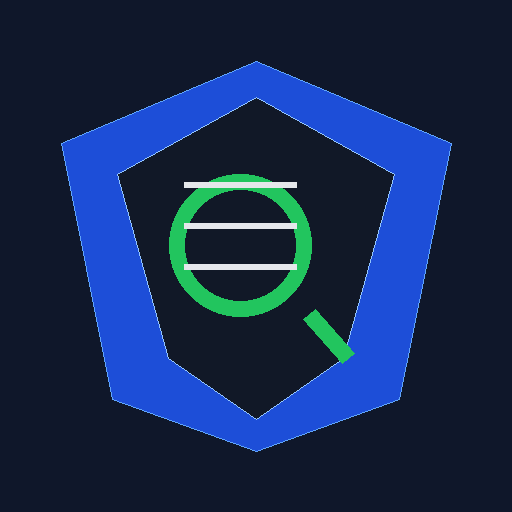
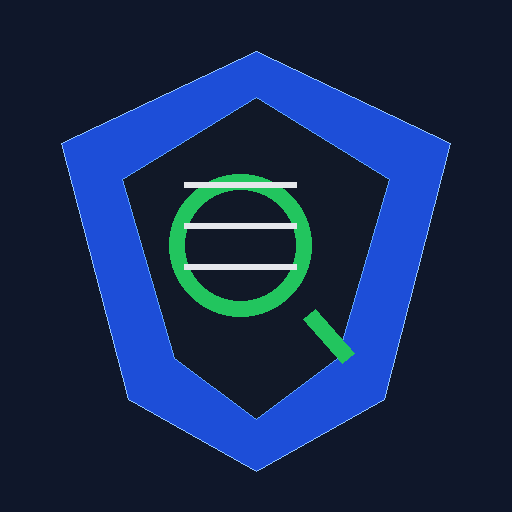
Release 3

diff --git a/js/app.js b/js/app.js
@@ -1,34 +1,36 @@
-let manifest=null,questions=[],current=0,sessionScore=0,results=[],flagged=new Set(),favorites=new Set(),answers={};
-const STORE='cysaCoachRelease2Stats', LISTS='cysaCoachRelease2Lists';
+let manifest=null,questions=[],current=0,sessionScore=0,answers={},mode='practice',flagged=new Set(),favorites=new Set();
+const STORE='cysaCoachR3Stats', LISTS='cysaCoachR3Lists';
 function getStats(){return JSON.parse(localStorage.getItem(STORE)||'{"answered":0,"correct":0,"lowConf":0,"domains":{},"topics":{},"mistakes":{}}')}
 function getLists(){return JSON.parse(localStorage.getItem(LISTS)||'{"flagged":[],"incorrect":[],"favorites":[]}' )}
 function saveLists(l){localStorage.setItem(LISTS,JSON.stringify(l))}
 function saveStats(s){localStorage.setItem(STORE,JSON.stringify(s));updateDashboard()}
 function pct(c,t){return t?Math.round(c/t*100):0}
-function updateStats(r){let s=getStats();s.answered++;if(r.correct)s.correct++;if(['guess','50','not selected'].includes(r.confidence))s.lowConf++;for(let key of ['domain','topic','mistake']){let bucket=key==='domain'?s.domains:key==='topic'?s.topics:s.mistakes;let val=r[key];if(!val)continue;if(!bucket[val])bucket[val]={answered:0,correct:0};bucket[val].answered++;if(r.correct)bucket[val].correct++;}saveStats(s)}
+function qkey(q=questions[current]){return `${packSelect.value}::${q.id}`}
+function updateStats(rec){if(rec.statsSaved)return;let s=getStats();s.answered++;if(rec.correct)s.correct++;if(['guess','50','not selected'].includes(rec.confidence))s.lowConf++;for(let key of ['domain','topic','mistake']){let bucket=key==='domain'?s.domains:key==='topic'?s.topics:s.mistakes;let val=rec[key];if(!val)continue;if(!bucket[val])bucket[val]={answered:0,correct:0};bucket[val].answered++;if(rec.correct)bucket[val].correct++;}rec.statsSaved=true;saveStats(s)}
 function weakest(obj){let name='Start Pack 1',min=101;Object.entries(obj).forEach(([k,v])=>{if(v.answered>=2){let p=pct(v.correct,v.answered);if(p<min){min=p;name=k}}});return name}
 function updateDashboard(){let s=getStats();let acc=pct(s.correct,s.answered);let readiness=Math.min(99,Math.round(acc*.75+Math.min(s.answered,100)*.25));dashAnswered.textContent=s.answered;dashAccuracy.textContent=acc+'%';dashLowConf.textContent=s.lowConf;readinessScore.textContent=readiness+'%';readinessLabel.textContent=readiness>=85?'Strong readiness':readiness>=70?'Building readiness':'Start practicing';dashFocus.textContent=weakest(s.domains)}
 async function init(){updateDashboard();manifest=await fetch('questions/manifest.json').then(r=>r.json());manifest.packs.forEach(p=>{let o=document.createElement('option');o.value=p.file;o.textContent=`${p.title} (${p.count})`;packSelect.appendChild(o)});let l=getLists();flagged=new Set(l.flagged);favorites=new Set(l.favorites);await loadSelectedPack()}
 async function loadSelectedPack(){questions=await fetch(packSelect.value).then(r=>r.json());restart()}
-function qkey(q=questions[current]){return `${packSelect.value}::${q.id}`}
-function persistLists(){let l=getLists();l.flagged=[...flagged];l.favorites=[...favorites];saveLists(l)}
-function render(){let q=questions[current];progress.textContent=`Question ${current+1} / ${questions.length}`;score.textContent=`Score: ${sessionScore}`;meta.textContent=`${q.domain} • ${q.qtype||q.kind} • ${q.difficulty}`;question.textContent=q.question;options.innerHTML='';explanation.innerHTML='';finalAnalytics.innerHTML='';submitBtn.style.display='inline-block';confidenceBox.style.display='block';document.querySelectorAll('input[name=confidence]').forEach(x=>x.checked=false);if(q.kind==='single'||q.kind==='multi'){q.options.forEach((opt,idx)=>{let l=document.createElement('label');l.className='option';let t=q.kind==='multi'?'checkbox':'radio';l.innerHTML=`<input type="${t}" name="answer" value="${idx}" style="margin-right:10px;">${opt}`;let input=l.querySelector('input');if(answers[current]?.selected?.includes(idx))input.checked=true;if(q.kind==='multi')input.addEventListener('change',()=>enforceSelectLimit(q.select_limit));options.appendChild(l)});if(q.kind==='multi'){let note=document.createElement('p');note.className='small warn';note.textContent=`Select exactly ${q.select_limit}.`;options.prepend(note)}}renderNavigator()}
+function setMode(m){mode=m;restart()}
+function render(){let q=questions[current], st=answers[current];progress.textContent=`Question ${current+1} / ${questions.length}`;score.textContent=`Score: ${sessionScore}`;meta.textContent=`${q.domain} • ${q.qtype||q.kind} • ${q.difficulty}`;modeBadge.textContent=mode==='practice'?'Practice Mode':'Exam Mode';question.textContent=q.question;options.innerHTML='';explanation.innerHTML='';finalAnalytics.innerHTML='';submitBtn.style.display=mode==='practice'&&!st?.submitted?'inline-block':'none';confidenceBox.style.display='block';document.querySelectorAll('input[name=confidence]').forEach(x=>x.checked=st?.confidence===x.value);q.options.forEach((opt,idx)=>{let l=document.createElement('label');l.className='option';let t=q.kind==='multi'?'checkbox':'radio';l.innerHTML=`<input type="${t}" name="answer" value="${idx}" style="margin-right:10px;">${opt}`;let input=l.querySelector('input');if(st?.selected?.includes(idx))input.checked=true;if(q.kind==='multi')input.addEventListener('change',()=>enforceSelectLimit(q.select_limit));if(st?.submitted||st?.graded){if(q.answer.includes(idx))l.classList.add('correct');if(st.selected?.includes(idx)&&!q.answer.includes(idx))l.classList.add('wrong');input.disabled=true}options.appendChild(l)});if(q.kind==='multi'){let note=document.createElement('p');note.className='small warn';note.textContent=`Select exactly ${q.select_limit}.`;options.prepend(note)}if((st?.submitted&&mode==='practice')||st?.graded)showExplanation(q,st.correct,st.confidence,false);renderNavigator()}
 function enforceSelectLimit(limit){let checked=[...document.querySelectorAll('#options input[type=checkbox]:checked')];if(checked.length>limit){checked[checked.length-1].checked=false;alert(`Select only ${limit}.`)}}
-function arraysEqual(a,b){return JSON.stringify([...a].sort((x,y)=>x-y))===JSON.stringify([...b].sort((x,y)=>x-y))}
-function getConf(){let c=document.querySelector('input[name=confidence]:checked');return c?c.value:'not selected'}
 function selectedNow(){let q=questions[current], sel=[];let selector=q.kind==='multi'?'#options input[type=checkbox]:checked':'#options input[name=answer]:checked';document.querySelectorAll(selector).forEach(x=>sel.push(parseInt(x.value)));return sel}
-function toggleFlag(){let k=qkey();flagged.has(k)?flagged.delete(k):flagged.add(k);persistLists();renderNavigator();alert(flagged.has(k)?'Flagged for review':'Removed flag')}
-function toggleFavorite(){let k=qkey();favorites.has(k)?favorites.delete(k):favorites.add(k);persistLists();alert(favorites.has(k)?'Added to favorites':'Removed favorite')}
-function submitAnswer(){let q=questions[current],correct=false,sel=selectedNow();if(q.kind==='multi'&&sel.length!==q.select_limit){alert(`Please select exactly ${q.select_limit}.`);return}if(q.kind==='single'&&sel.length!==1){alert('Please select one answer.');return}correct=arraysEqual(sel,q.answer);answers[current]={selected:sel,correct};document.querySelectorAll('#options .option').forEach((lab,idx)=>{if(q.answer.includes(idx))lab.classList.add('correct');if(sel.includes(idx)&&!q.answer.includes(idx))lab.classList.add('wrong')});if(!results.find(r=>r.index===current)){if(correct)sessionScore++;let conf=getConf();let rec={index:current,key:qkey(),domain:q.domain,topic:q.topic||'',type:q.qtype||q.kind,mistake:correct?'':q.mistake_type,correct,confidence:conf,flagged:flagged.has(qkey())};results.push(rec);if(!correct){let l=getLists();if(!l.incorrect.includes(qkey()))l.incorrect.push(qkey());saveLists(l)}updateStats(rec)}score.textContent=`Score: ${sessionScore}`;showExplanation(q,correct,getConf());submitBtn.style.display='none';renderNavigator()}
-function showExplanation(q,correct,conf){let h=`<div class="explanation"><strong>${correct?'Correct':'Not quite'}.</strong> Confidence: <strong>${conf}</strong><br><br>`;h+=`<strong>Correct answer${q.answer.length>1?'s':''}:</strong> ${q.answer.map(i=>q.options[i]).join('; ')}<br><br>`;h+=`<strong>Why the correct answer is correct:</strong><br>${q.why_correct}<br><br><strong>CompTIA trap:</strong><br>${q.trap}<br><br><strong>Takeaway:</strong><br>${q.takeaway}`;if(!correct&&q.mistake_type)h+=`<div class="coach"><strong>Coach note:</strong><br>This miss may indicate: ${q.mistake_type}.</div>`;if(q.why_wrong){h+='<br><br><strong>Why the other answers are wrong:</strong><ul>';for(let [idx,reason] of Object.entries(q.why_wrong))h+=`<li><strong>${q.options[parseInt(idx)]}:</strong> ${reason}</li>`;h+='</ul>'}explanation.innerHTML=h+'</div>'}
-function nextQuestion(){if(current<questions.length-1){current++;render()}else finish()}
-function prevQuestion(){if(current>0){current--;render()}}
-function jumpTo(i){current=i;render();navigator.style.display='none'}
-function toggleNavigator(){navigator.style.display=navigator.style.display==='none'?'block':'none';renderNavigator()}
-function renderNavigator(){if(!questions.length)return;let html='<strong>Question Navigator</strong><br>';questions.forEach((q,i)=>{let cls='navBtn';if(answers[i])cls+=' navAnswered';if(flagged.has(`${packSelect.value}::${q.id}`))cls+=' navFlagged';if(i===current)cls+=' navCurrent';html+=`<button class="${cls}" onclick="jumpTo(${i})">${i+1}${flagged.has(`${packSelect.value}::${q.id}`)?' ⚑':''}</button>`});navigator.innerHTML=html}
-function showStudyList(type){let l=getLists();let arr=l[type]||[];let title=type==='flagged'?'Flagged Questions':type==='incorrect'?'Incorrect Questions':'Favorite Questions';let html=`<div class="reviewList"><h2>${title}</h2>`;if(!arr.length)html+='<p class="small">Nothing saved here yet.</p>';arr.forEach(k=>{let id=k.split('::').pop();let q=questions.find(x=>String(x.id)===String(id));if(q)html+=`<div class="reviewItem"><span><strong>Q${questions.indexOf(q)+1}</strong> — ${q.topic}<br><span class="small">${q.domain}</span></span><button onclick="jumpTo(${questions.indexOf(q)})">Review</button></div>`});html+='</div>';finalAnalytics.innerHTML=html}
-function finish(){question.textContent=`Quiz complete! Final score: ${sessionScore} / ${questions.length}`;options.innerHTML='';explanation.innerHTML='';confidenceBox.style.display='none';submitBtn.style.display='none';let by={};results.forEach(r=>{if(!by[r.domain])by[r.domain]={t:0,c:0};by[r.domain].t++;if(r.correct)by[r.domain].c++});let html='<div class="analytics"><h2>Session Report</h2><div class="grid">';html+=`<div class="metric"><strong>Session Score</strong><br>${pct(sessionScore,questions.length)}%</div><div class="metric"><strong>Flagged</strong><br>${[...flagged].filter(k=>k.startsWith(packSelect.value)).length}</div><div class="metric"><strong>Incorrect This Session</strong><br>${results.filter(r=>!r.correct).length}</div>`;Object.entries(by).forEach(([d,v])=>html+=`<div class="metric"><strong>${d}</strong><br>${v.c}/${v.t} (${pct(v.c,v.t)}%)</div>`);html+='</div></div>';finalAnalytics.innerHTML=html;showStudyList('flagged')}
-function restart(){current=0;sessionScore=0;results=[];answers={};if(questions.length)render()}
+function getConf(){let c=document.querySelector('input[name=confidence]:checked');return c?c.value:'not selected'}
+function arraysEqual(a,b){return JSON.stringify([...a].sort((x,y)=>x-y))===JSON.stringify([...b].sort((x,y)=>x-y))}
+function saveCurrentDraft(){let q=questions[current];if(answers[current]?.submitted||answers[current]?.graded)return;let sel=selectedNow();let conf=getConf();if(sel.length||conf!=='not selected')answers[current]={...(answers[current]||{}),selected:sel,confidence:conf}}
+function submitAnswer(){let q=questions[current], sel=selectedNow();if(q.kind==='multi'&&sel.length!==q.select_limit){alert(`Please select exactly ${q.select_limit}.`);return}if(q.kind==='single'&&sel.length!==1){alert('Please select one answer.');return}let correct=arraysEqual(sel,q.answer), conf=getConf();answers[current]={selected:sel,confidence:conf,correct,submitted:true,graded:true};if(correct)sessionScore++;updateStats({domain:q.domain,topic:q.topic||'',mistake:correct?'':q.mistake_type,correct,confidence:conf});if(!correct){let l=getLists();if(!l.incorrect.includes(qkey()))l.incorrect.push(qkey());saveLists(l)}render()}
+function gradeExam(){sessionScore=0;questions.forEach((q,i)=>{let st=answers[i]||{selected:[],confidence:'not selected'};let correct=arraysEqual(st.selected||[],q.answer);answers[i]={...st,correct,graded:true,submitted:true};if(correct)sessionScore++;updateStats({domain:q.domain,topic:q.topic||'',mistake:correct?'':q.mistake_type,correct,confidence:st.confidence||'not selected'});if(!correct){let l=getLists();let key=`${packSelect.value}::${q.id}`;if(!l.incorrect.includes(key))l.incorrect.push(key);saveLists(l)}})}
+function showExplanation(q,correct,conf,wrap=true){let h=`<div class="explanation"><strong>${correct?'Correct':'Not quite'}.</strong> Confidence: <strong>${conf}</strong><br><br>`;h+=`<strong>Correct answer${q.answer.length>1?'s':''}:</strong> ${q.answer.map(i=>q.options[i]).join('; ')}<br><br><strong>Why the correct answer is correct:</strong><br>${q.why_correct}<br><br><strong>CompTIA trap:</strong><br>${q.trap}<br><br><strong>Takeaway:</strong><br>${q.takeaway}`;if(!correct&&q.mistake_type)h+=`<div class="coach"><strong>Coach note:</strong><br>This miss may indicate: ${q.mistake_type}.</div>`;if(q.why_wrong){h+='<br><br><strong>Why the other answers are wrong:</strong><ul>';for(let [idx,reason] of Object.entries(q.why_wrong))h+=`<li><strong>${q.options[parseInt(idx)]}:</strong> ${reason}</li>`;h+='</ul>'}explanation.innerHTML=h+'</div>'}
+function nextQuestion(){saveCurrentDraft();if(current<questions.length-1){current++;render()}else finish()}
+function prevQuestion(){saveCurrentDraft();if(current>0){current--;render()}}
+function jumpTo(i){saveCurrentDraft();current=i;render()}
+function toggleFlag(){let k=qkey();flagged.has(k)?flagged.delete(k):flagged.add(k);persistLists();renderNavigator()}
+function toggleFavorite(){let k=qkey();favorites.has(k)?favorites.delete(k):favorites.add(k);persistLists();renderNavigator()}
+function persistLists(){let l=getLists();l.flagged=[...flagged];l.favorites=[...favorites];saveLists(l)}
+function renderNavigator(){let html='';questions.forEach((q,i)=>{let key=`${packSelect.value}::${q.id}`, st=answers[i]||{};let cls='navBtn';if(st.selected?.length)cls+=' navAnswered';if(flagged.has(key))cls+=' navFlagged';if(favorites.has(key))cls+=' navFavorite';if(st.graded&&!st.correct)cls+=' navIncorrect';if(i===current)cls+=' navCurrent';let icons=(st.selected?.length?'✓ ':'')+(flagged.has(key)?'⚑ ':'')+(favorites.has(key)?'⭐ ':'')+(st.graded&&!st.correct?'❌ ':'');html+=`<button class="${cls}" onclick="jumpTo(${i})">Q${i+1} ${icons}<br><span class="small">${q.topic}</span></button>`});sideNavigator.innerHTML=html}
+function showStudyList(type){let l=getLists(), arr=l[type]||[], title=type==='flagged'?'Flagged Questions':type==='incorrect'?'Incorrect Questions':'Favorite Questions';let html=`<div class="reviewList"><h2>${title}</h2>`;if(!arr.length)html+='<p class="small">Nothing saved here yet.</p>';arr.forEach(k=>{let id=k.split('::').pop();let q=questions.find(x=>String(x.id)===String(id));if(q)html+=`<div class="reviewItem"><span><strong>Q${questions.indexOf(q)+1}</strong> — ${q.topic}<br><span class="small">${q.domain}</span></span><button onclick="jumpTo(${questions.indexOf(q)})">Review</button></div>`});finalAnalytics.innerHTML=html+'</div>'}
+function finish(){saveCurrentDraft();if(mode==='exam'&&!Object.values(answers).some(x=>x.graded))gradeExam();question.textContent=`Session complete! Score: ${sessionScore} / ${questions.length}`;options.innerHTML='';explanation.innerHTML='';confidenceBox.style.display='none';submitBtn.style.display='none';let by={};questions.forEach((q,i)=>{let st=answers[i]||{};if(!by[q.domain])by[q.domain]={t:0,c:0};by[q.domain].t++;if(st.correct)by[q.domain].c++});let html='<div class="analytics"><h2>Review Summary</h2><div class="grid">';html+=`<div class="metric"><strong>Score</strong><br>${pct(sessionScore,questions.length)}%</div><div class="metric"><strong>Flagged</strong><br>${[...flagged].filter(k=>k.startsWith(packSelect.value)).length}</div><div class="metric"><strong>Incorrect</strong><br>${Object.values(answers).filter(x=>x.graded&&!x.correct).length}</div>`;Object.entries(by).forEach(([d,v])=>html+=`<div class="metric"><strong>${d}</strong><br>${v.c}/${v.t} (${pct(v.c,v.t)}%)</div>`);finalAnalytics.innerHTML=html+'</div></div>';renderNavigator()}
+function restart(){current=0;sessionScore=0;answers={};if(questions.length)render()}
 function shuffleQuiz(){questions=[...questions].sort(()=>Math.random()-0.5);restart()}
-function resetProgress(){if(confirm('Reset saved progress and saved lists?')){localStorage.removeItem(STORE);localStorage.removeItem(LISTS);flagged=new Set();favorites=new Set();updateDashboard();restart()}}
+function resetProgress(){if(confirm('Reset saved progress and lists?')){localStorage.removeItem(STORE);localStorage.removeItem(LISTS);flagged=new Set();favorites=new Set();updateDashboard();restart()}}
 init();

diff --git a/index.html b/index.html
@@ -1,15 +1,16 @@
-<!doctype html><html lang="en"><head><meta charset="utf-8"><meta name="viewport" content="width=device-width, initial-scale=1"><title>CySA+ Coach Release 2</title><link rel="manifest" href="manifest.webmanifest"><link rel="icon" type="image/png" href="icons/favicon.png"><meta name="theme-color" content="#0f172a"><link rel="stylesheet" href="css/styles.css"></head><body>
+<!doctype html><html lang="en"><head><meta charset="utf-8"><meta name="viewport" content="width=device-width, initial-scale=1"><title>CySA+ Coach Release 3</title><link rel="manifest" href="manifest.webmanifest"><link rel="icon" type="image/png" href="icons/favicon.png"><meta name="theme-color" content="#0f172a"><link rel="stylesheet" href="css/styles.css"></head><body>
 <div class="app-shell">
-<header class="hero"><div class="brand-row"><img src="icons/icon-192.png" class="logo" alt="CySA+ Coach logo"><div><p class="eyebrow">Release 2.0</p><h1>CySA+ Coach</h1><p class="sub">Exam-style trainer with navigation, saved flags, favorites, incorrect review, and detailed coaching.</p></div></div><div class="readiness-card"><span class="small">Readiness</span><strong id="readinessScore">0%</strong><span id="readinessLabel">Start practicing</span></div></header>
+<header class="hero"><div class="brand-row"><img src="icons/icon-192.png" class="logo" alt="CySA+ Coach logo"><div><p class="eyebrow">Release 3.0</p><h1>CySA+ Coach</h1><p class="sub">Practice Mode, Exam Mode, side navigator, saved highlights, flags, favorites, and review lists.</p></div></div><div class="readiness-card"><span class="small">Readiness</span><strong id="readinessScore">0%</strong><span id="readinessLabel">Start practicing</span></div></header>
 <section class="dashboard grid"><div class="metric"><strong>Total Answered</strong><br><span id="dashAnswered">0</span></div><div class="metric"><strong>Overall Accuracy</strong><br><span id="dashAccuracy">0%</span></div><div class="metric"><strong>Low/No Confidence</strong><br><span id="dashLowConf">0</span></div><div class="metric"><strong>Recommended Focus</strong><br><span id="dashFocus">Start Pack 1</span></div></section>
-<main class="card">
-<div class="toolbar"><label for="packSelect">Question Pack</label><select id="packSelect"></select><button onclick="loadSelectedPack()">Load Pack</button><button class="secondary" onclick="shuffleQuiz()">Shuffle</button><button class="secondary" onclick="restart()">Restart Pack</button><button class="danger" onclick="resetProgress()">Reset Progress</button></div>
-<div class="modebar"><button class="secondary" onclick="showStudyList('flagged')">⚑ Flagged</button><button class="secondary" onclick="showStudyList('incorrect')">❌ Incorrect</button><button class="secondary" onclick="showStudyList('favorites')">⭐ Favorites</button><button class="secondary" onclick="toggleNavigator()">Question Navigator</button></div>
-<div id="navigator" class="navigator" style="display:none;"></div>
-<div><span class="badge" id="progress"></span><span class="badge" id="score"></span><span class="badge" id="meta"></span></div>
+<main class="layout">
+<aside class="side-nav"><h3>Navigator</h3><div class="legend"><span>✓ answered</span><span>⚑ flagged</span><span>⭐ favorite</span><span>❌ missed</span></div><div id="sideNavigator"></div></aside>
+<section class="card">
+<div class="toolbar"><label for="packSelect">Question Pack</label><select id="packSelect"></select><button onclick="loadSelectedPack()">Load Pack</button><button onclick="setMode('practice')" id="practiceBtn">Practice Mode</button><button class="secondary" onclick="setMode('exam')" id="examBtn">Exam Mode</button><button class="secondary" onclick="shuffleQuiz()">Shuffle</button><button class="danger" onclick="resetProgress()">Reset Progress</button></div>
+<div class="modebar"><button class="secondary" onclick="showStudyList('flagged')">⚑ Flagged</button><button class="secondary" onclick="showStudyList('incorrect')">❌ Incorrect</button><button class="secondary" onclick="showStudyList('favorites')">⭐ Favorites</button><button class="secondary" onclick="finish()">Finish / Review</button></div>
+<div><span class="badge" id="progress"></span><span class="badge" id="score"></span><span class="badge" id="meta"></span><span class="badge" id="modeBadge"></span></div>
 <div class="question" id="question">Loading...</div><div id="options"></div>
 <div class="confidence" id="confidenceBox"><strong>Confidence:</strong><br><label><input type="radio" name="confidence" value="guess"> Guess</label><label><input type="radio" name="confidence" value="50"> 50/50</label><label><input type="radio" name="confidence" value="sure"> Pretty sure</label><label><input type="radio" name="confidence" value="certain"> Certain</label></div>
 <div id="explanation"></div>
 <div class="controls"><button id="prevBtn" class="secondary" onclick="prevQuestion()">Previous</button><button id="submitBtn" onclick="submitAnswer()">Submit Answer</button><button id="nextBtn" onclick="nextQuestion()">Next Question</button><button class="secondary flag" onclick="toggleFlag()">⚑ Flag</button><button class="secondary star" onclick="toggleFavorite()">⭐ Favorite</button></div>
 <div id="finalAnalytics"></div>
-</main></div><script src="js/app.js"></script><script>if('serviceWorker' in navigator){window.addEventListener('load',()=>navigator.serviceWorker.register('service-worker.js'));}</script></body></html>
+</section></main></div><script src="js/app.js"></script><script>if('serviceWorker' in navigator){window.addEventListener('load',()=>navigator.serviceWorker.register('service-worker.js'));}</script></body></html>

diff --git a/css/styles.css b/css/styles.css
@@ -1,1 +1,1 @@
-body{font-family:Inter,Arial,sans-serif;background:radial-gradient(circle at top,#1e3a8a 0,#0f172a 36%,#020617 100%);color:#e5e7eb;margin:0;padding:14px}.app-shell{max-width:1100px;margin:auto}.hero{display:grid;grid-template-columns:1fr 190px;gap:16px;align-items:center;margin-bottom:14px}.brand-row{display:flex;gap:14px;align-items:center}.logo{width:72px;height:72px;border-radius:18px;box-shadow:0 0 0 2px #60a5fa55}.hero h1{font-size:34px;margin:2px 0}.eyebrow{color:#93c5fd;font-weight:bold;margin:0;text-transform:uppercase;letter-spacing:.08em}.sub{color:#cbd5e1;line-height:1.4;font-size:15px}.readiness-card,.card,.metric{background:#111827dd;border:1px solid #334155;border-radius:20px;box-shadow:0 12px 30px rgba(0,0,0,.32);backdrop-filter:blur(8px)}.readiness-card{padding:18px;text-align:center}.readiness-card strong{display:block;font-size:42px;color:#22c55e}.card{padding:18px}.grid{display:grid;grid-template-columns:repeat(auto-fit,minmax(180px,1fr));gap:10px}.dashboard{margin-bottom:14px}.metric{padding:14px}.metric span{font-size:20px;color:#bfdbfe}.toolbar,.modebar,.controls{display:flex;gap:10px;flex-wrap:wrap;align-items:center;margin:15px 0}.badge{display:inline-block;background:#1d4ed8;padding:8px 12px;border-radius:999px;margin:0 8px 10px 0;font-weight:bold;font-size:13px}.question{font-size:20px;line-height:1.5;margin:20px 0;white-space:pre-line;font-weight:bold}.option,select{width:100%;padding:14px;margin:10px 0;border-radius:13px;border:2px solid #334155;background:#1e293b;color:white;text-align:left;font-size:16px;box-sizing:border-box}.option{display:block;cursor:pointer}.option:hover{background:#334155}.correct{background:#14532d!important;border-color:#22c55e!important}.wrong{background:#7f1d1d!important;border-color:#ef4444!important}.explanation,.analytics,.reviewList,.navigator{margin-top:16px;background:#1e293b;padding:16px;border-radius:14px;border:1px solid #475569;line-height:1.5}button{background:#2563eb;border:0;padding:12px 16px;border-radius:12px;color:white;font-weight:bold;cursor:pointer;font-size:15px}button.secondary{background:#0f172a;border:1px solid #64748b}button.flag{background:#854d0e}button.star{background:#713f12}button.danger{background:#7f1d1d}.confidence{margin-top:16px;padding:13px;border:1px solid #475569;border-radius:12px;background:#0f172a}.confidence label{display:inline-block;margin:8px 14px 0 0}.small{font-size:14px;color:#94a3b8}.warn{color:#facc15;font-weight:bold}.coach{border-left:4px solid #60a5fa;padding-left:12px;margin-top:14px}.navBtn{width:auto;min-width:46px;margin:4px;padding:10px}.navAnswered{background:#166534}.navFlagged{outline:2px solid #f59e0b}.navCurrent{outline:3px solid #60a5fa}.reviewItem{display:flex;justify-content:space-between;gap:10px;border-bottom:1px solid #334155;padding:10px 0}@media(max-width:700px){body{padding:8px}.hero{grid-template-columns:1fr}.brand-row{align-items:flex-start}.logo{width:56px;height:56px}.card{padding:14px}.hero h1{font-size:28px}.question{font-size:18px}button{width:100%}.navBtn{width:auto}.controls,.toolbar,.modebar{gap:8px}.reviewItem{display:block}}
+body{font-family:Inter,Arial,sans-serif;background:radial-gradient(circle at top,#1e3a8a 0,#0f172a 36%,#020617 100%);color:#e5e7eb;margin:0;padding:14px}.app-shell{max-width:1250px;margin:auto}.hero{display:grid;grid-template-columns:1fr 190px;gap:16px;align-items:center;margin-bottom:14px}.brand-row{display:flex;gap:14px;align-items:center}.logo{width:72px;height:72px;border-radius:18px;box-shadow:0 0 0 2px #60a5fa55}.hero h1{font-size:34px;margin:2px 0}.eyebrow{color:#93c5fd;font-weight:bold;margin:0;text-transform:uppercase;letter-spacing:.08em}.sub{color:#cbd5e1;line-height:1.4;font-size:15px}.layout{display:grid;grid-template-columns:240px 1fr;gap:14px}.side-nav,.readiness-card,.card,.metric{background:#111827dd;border:1px solid #334155;border-radius:20px;box-shadow:0 12px 30px rgba(0,0,0,.32);backdrop-filter:blur(8px)}.side-nav{padding:14px;align-self:start;position:sticky;top:10px}.legend{display:grid;gap:5px;color:#94a3b8;font-size:13px;margin-bottom:10px}.readiness-card{padding:18px;text-align:center}.readiness-card strong{display:block;font-size:42px;color:#22c55e}.card{padding:18px}.grid{display:grid;grid-template-columns:repeat(auto-fit,minmax(180px,1fr));gap:10px}.dashboard{margin-bottom:14px}.metric{padding:14px}.metric span{font-size:20px;color:#bfdbfe}.toolbar,.modebar,.controls{display:flex;gap:10px;flex-wrap:wrap;align-items:center;margin:15px 0}.badge{display:inline-block;background:#1d4ed8;padding:8px 12px;border-radius:999px;margin:0 8px 10px 0;font-weight:bold;font-size:13px}.question{font-size:20px;line-height:1.5;margin:20px 0;white-space:pre-line;font-weight:bold}.option,select{width:100%;padding:14px;margin:10px 0;border-radius:13px;border:2px solid #334155;background:#1e293b;color:white;text-align:left;font-size:16px;box-sizing:border-box}.option{display:block;cursor:pointer}.option:hover{background:#334155}.correct{background:#14532d!important;border-color:#22c55e!important}.wrong{background:#7f1d1d!important;border-color:#ef4444!important}.explanation,.analytics,.reviewList{margin-top:16px;background:#1e293b;padding:16px;border-radius:14px;border:1px solid #475569;line-height:1.5}button{background:#2563eb;border:0;padding:12px 16px;border-radius:12px;color:white;font-weight:bold;cursor:pointer;font-size:15px}button.secondary{background:#0f172a;border:1px solid #64748b}button.flag{background:#854d0e}button.star{background:#713f12}button.danger{background:#7f1d1d}.confidence{margin-top:16px;padding:13px;border:1px solid #475569;border-radius:12px;background:#0f172a}.confidence label{display:inline-block;margin:8px 14px 0 0}.small{font-size:14px;color:#94a3b8}.warn{color:#facc15;font-weight:bold}.coach{border-left:4px solid #60a5fa;padding-left:12px;margin-top:14px}.navBtn{width:100%;text-align:left;margin:4px 0;padding:10px;border-radius:10px;background:#0f172a;border:1px solid #334155}.navAnswered{border-color:#22c55e}.navFlagged{box-shadow:inset 4px 0 0 #f59e0b}.navFavorite{box-shadow:inset -4px 0 0 #eab308}.navIncorrect{background:#3f1212}.navCurrent{outline:3px solid #60a5fa}.reviewItem{display:flex;justify-content:space-between;gap:10px;border-bottom:1px solid #334155;padding:10px 0}@media(max-width:850px){.layout{grid-template-columns:1fr}.side-nav{position:static}.hero{grid-template-columns:1fr}}@media(max-width:700px){body{padding:8px}.brand-row{align-items:flex-start}.logo{width:56px;height:56px}.card{padding:14px}.hero h1{font-size:28px}.question{font-size:18px}button{width:100%}.controls,.toolbar,.modebar{gap:8px}.reviewItem{display:block}}

diff --git a/service-worker.js b/service-worker.js
@@ -1,4 +1,4 @@
-const CACHE='cysa-coach-release-2';
+const CACHE='cysa-coach-release-3';
 const ASSETS=['./','./index.html','./css/styles.css','./js/app.js','./questions/manifest.json','./questions/pack1.json','./manifest.webmanifest','./icons/icon-192.png','./icons/icon-512.png','./icons/favicon.png'];
 self.addEventListener('install',e=>{self.skipWaiting();e.waitUntil(caches.open(CACHE).then(c=>c.addAll(ASSETS)))});
 self.addEventListener('activate',e=>{e.waitUntil(caches.keys().then(keys=>Promise.all(keys.filter(k=>k!==CACHE).map(k=>caches.delete(k)))));});

diff --git a/README.md b/README.md
@@ -1,5 +1,5 @@
-# CySA+ Coach Release 2
+# CySA+ Coach Release 3
 
-Adds question navigator, previous/next navigation, persistent flagged questions, favorites, incorrect review, and saved progress.
+Adds Practice Mode, Exam Mode, side navigator, persistent answer highlighting, saved flags, favorites, and review lists.
 
 Upload contents to GitHub repo root.